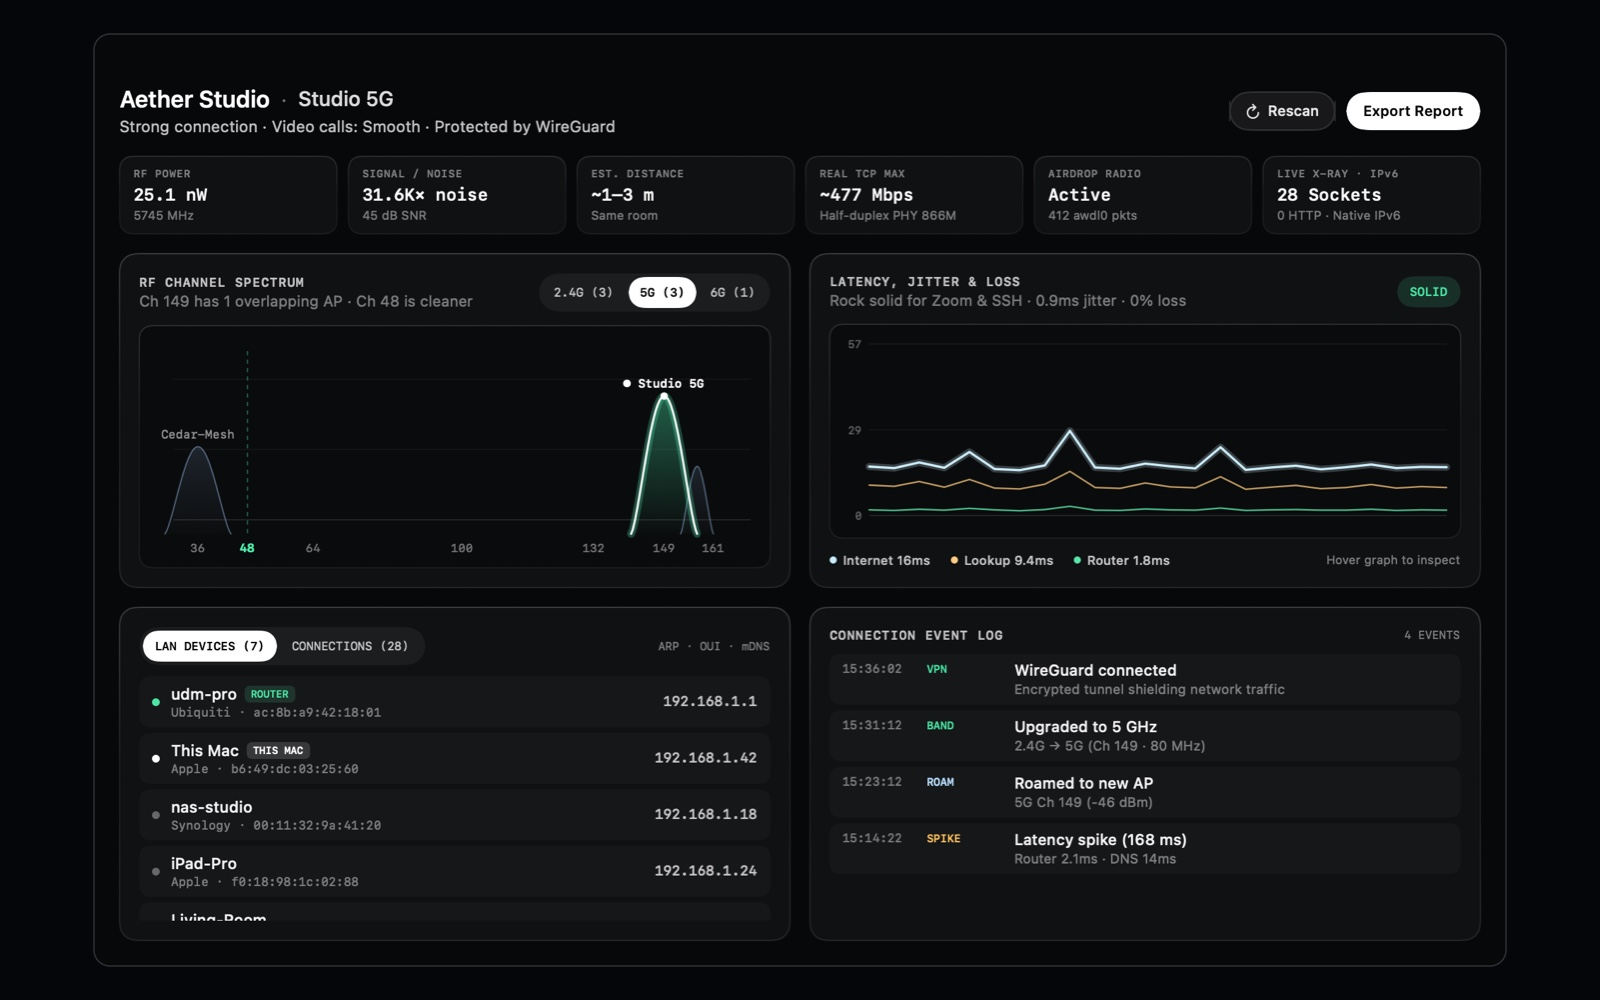
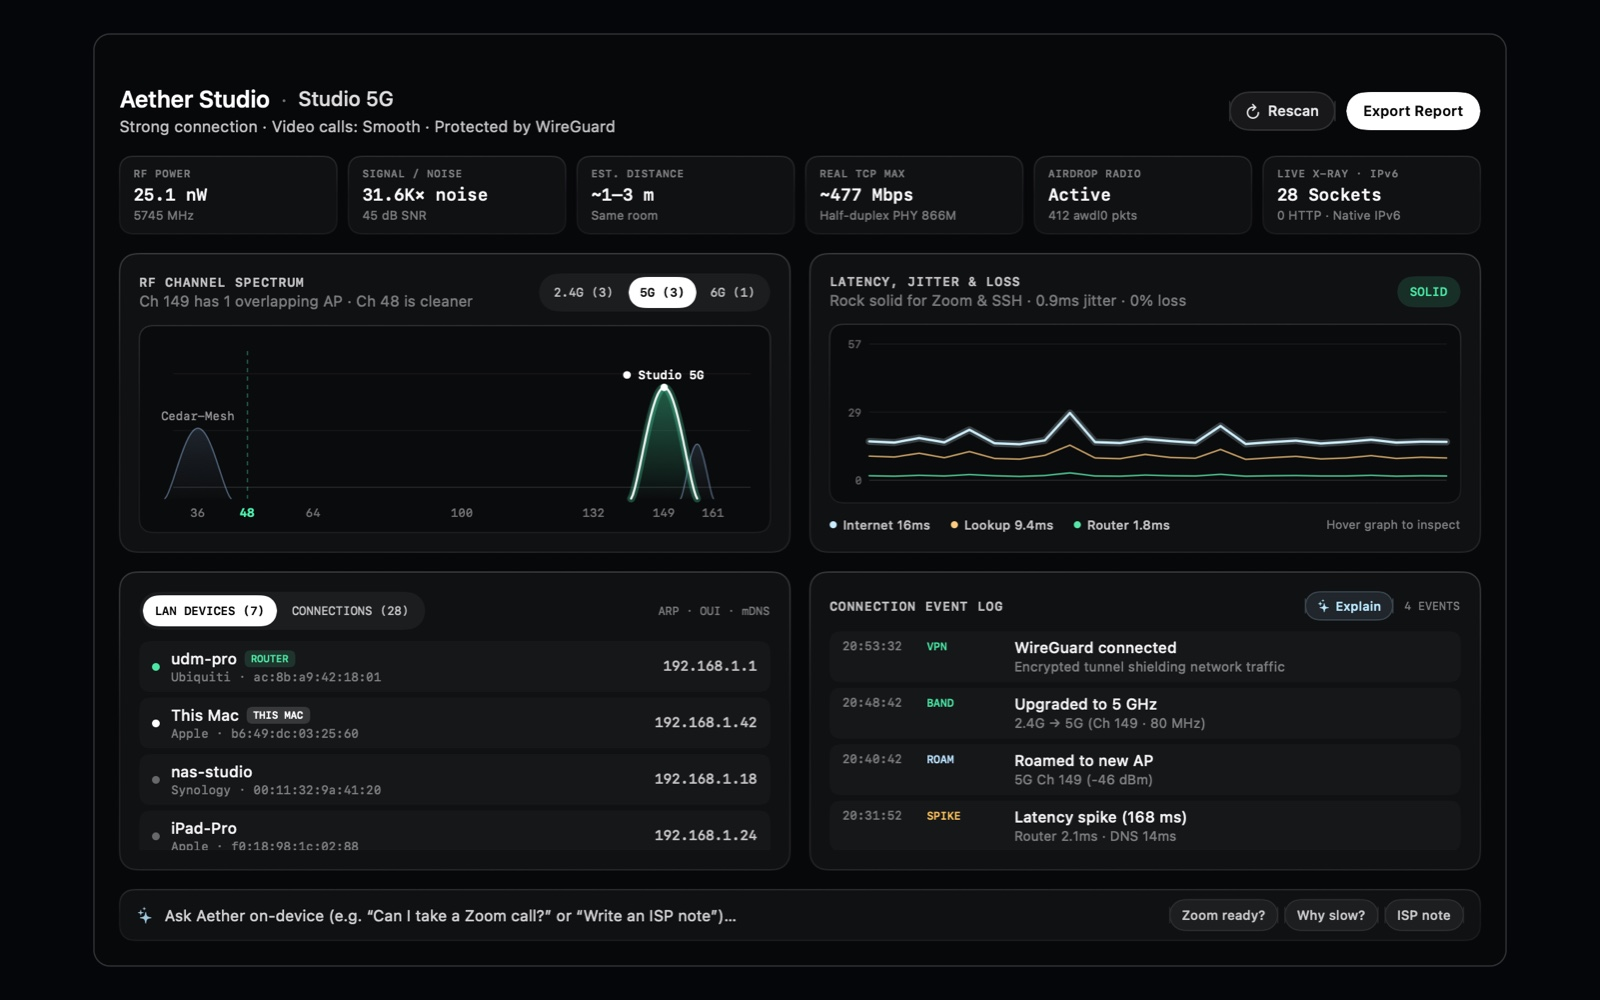
docs: update README, screenshots & App Store review notes for on-device FoundationModels & ICMP/TLS RTT

diff --git a/README.md b/README.md
@@ -1,6 +1,6 @@
 # Aether
 
-**Aether** is a native macOS menu bar Wi-Fi instrument built to replace Apple’s default Wi-Fi menu. Zero subscriptions, zero Electron, zero third-party packages — a **3.1 MB** Swift 6 + SwiftUI + AppKit app (`0.0%` idle CPU) that brings live throughput, parent-grouped app bandwidth with real macOS icons, active interfaces, radio physics, channel spectrum analysis, multi-hop latency/jitter, LAN discovery, outbound connections, and privacy posture into one quiet obsidian panel.
+**Aether** is a native macOS menu bar Wi-Fi instrument built to replace Apple’s default Wi-Fi menu. Zero subscriptions, zero Electron, zero third-party packages — a **3.2 MB** Swift 6 + SwiftUI + AppKit app (`0.0%` idle CPU) that brings live throughput, parent-grouped app bandwidth with real macOS icons, active interfaces, radio physics, channel spectrum analysis, unspoofable ICMP/TLS latency, LAN discovery, outbound connections, privacy posture, and on-device Apple `FoundationModels` diagnostics into one quiet obsidian panel.
 
 **Website & live preview:** [strangechances.com/aether](https://strangechances.com/aether/)
 
@@ -27,12 +27,12 @@ Until now, answering those questions on macOS meant juggling six separate paid u
 | Menu Bar & Speed (`FLUX`) | Public Wi-Fi Privacy (`ROUTE`) |
 | :---: | :---: |
 | ![Menu Bar & Speed](docs/hero-menubar.jpg) | ![Public Wi-Fi Privacy](docs/vis-privacy.jpg) |
-| Live harmonic silk ribbons (`↓ / ↑`), fixed-width `28pt` menu bar icon with color-coded `▾ / ▴` speed arrows (zero bar shifting), 4-step health chain, `Download / Upload` + `Received / Sent / Peak`, active `Wi-Fi` & `VPN` interfaces, parent-grouped `Processes` with real macOS app icons, activity readiness, and bufferbloat speed test. | Plain-English *"Who Can See You Here?"* breakdown (Strangers Nearby, Wi-Fi Owner & ISP, Others on This Wi-Fi), curved Bézier 4-hop route with frosted VPN shield, auto-`PUBLIC` trust zone detection on open or crowded Wi-Fi, and 1-click DNS switching. |
+| Live harmonic silk ribbons (`↓ / ↑`), fixed-width `28pt` menu bar icon with color-coded `▾ / ▴` speed arrows (zero bar shifting), 4-step health chain, `Download / Upload` + `Received / Sent / Peak`, active `Wi-Fi` & `VPN` interfaces, parent-grouped `Processes` with real macOS app icons, activity readiness, on-device `✦ Brief` diagnosis, and bufferbloat speed test. | Plain-English *"Who Can See You Here?"* breakdown (Strangers Nearby, Wi-Fi Owner & ISP, Others on This Wi-Fi), curved Bézier 4-hop route with frosted VPN shield, auto-`PUBLIC` trust zone detection on open or crowded Wi-Fi, and 1-click DNS switching. |
 
 | RF Channel Spectrum & Roaming (`SPECTRUM`) | Aether Studio Workstation (`⌘E`) |
 | :---: | :---: |
 | ![RF Channel Spectrum](docs/vis-spectrum.jpg) | ![Aether Studio](docs/vis-studio.jpg) |
-| Dual-pass Gaussian channel overlap across 2.4 / 5 / 6 GHz, cleaner-channel recommendations, sticky-client 5 GHz roaming nudges, Touch ID Wi-Fi Share QR code, and 1-click VPN toggles. | Expandable obsidian workstation combining a 6-cell RF physics & socket X-Ray bar (nanowatts, linear SNR multiplier, path-loss distance, half-duplex TCP ceiling, `awdl0` AirDrop radio, native IPv6), full channel spectrum, interactive hover-crosshair latency/jitter/loss timeline, OUI + mDNS LAN devices, live per-app outbound connections, and automatic event log. |
+| Dual-pass Gaussian channel overlap across 2.4 / 5 / 6 GHz, cleaner-channel recommendations, sticky-client 5 GHz roaming nudges, Touch ID Wi-Fi Share QR code, and 1-click VPN toggles. | Expandable obsidian workstation combining a 6-cell RF physics & socket X-Ray bar (nanowatts, linear SNR multiplier, path-loss distance, half-duplex TCP ceiling, `awdl0` AirDrop radio, native IPv6), full channel spectrum, interactive hover-crosshair latency/jitter/loss timeline, OUI + mDNS LAN devices, live per-app outbound connections, event log with `✦ Explain`, and an on-device `Ask Aether` command bar. |
 
 <p align="center">
   <img src="docs/vis-disconnected.jpg" alt="Aether Disconnected-First Wi-Fi Picker" width="82%">
@@ -78,6 +78,7 @@ Sources/
 │   ├── TrustAnalyzer.swift         # Non-scareware security posture, Evil Twin & gateway ARP watch
 │   ├── TrustStore.swift            # Per-network trust zones (auto-PUBLIC on open/crowded Wi-Fi) & gateway pinning
 │   ├── HumanSummary.swift          # Plain-English activity readiness, 3-actor privacy story & live RF insights
+│   ├── LocalNetworkAdvisor.swift   # On-device Apple FoundationModels synthesis (macOS 26+, weak-linked) + fallback
 │   ├── OUIVendorLookup.swift       # Compact offline IEEE OUI vendor lookup
 │   ├── NetworkProbes.swift         # Async timeout-bounded probes, 1s nettop delta, captive portal & direct tools
 │   └── MenuBarPositioner.swift     # Notch-safe floating panel geometry

diff --git a/AppStore/REVIEW-NOTES.md b/AppStore/REVIEW-NOTES.md
@@ -7,8 +7,8 @@ Aether is a native macOS menu bar utility (`LSUIElement = true`) that visualizes
 1. Launch **Aether** — its geometric Wi-Fi icon appears in the top-right macOS menu bar (and opens automatically on first launch).
 2. **Connected state:** Click the menu bar icon to inspect:
    - **Hero Stage:** Tap the visualization or hover to switch between **Flux** (live throughput), **Spectrum** (RF channel overlap), and **Route** (4-hop circuit).
-   - **Tabs:** `Speed` (live Download/Upload, Received/Sent/Peak totals, active network interfaces, activity readiness, and `Run Test` responsiveness check), `Privacy` (local network exposure, trust zone, and discovered LAN devices), `Wi-Fi` (nearby networks and system VPN toggle), and `More` (Simple/Pro view, menu bar style, on-demand Public IP lookup, Privacy Policy).
-   - **Studio Window:** Click the top-right expand arrow (or press `⌘E`) to open Aether Studio.
+   - **Tabs:** `Speed` (live Download/Upload, Received/Sent/Peak totals, active network interfaces, activity readiness, on-demand `✦ Brief` diagnosis, and `Run Test` responsiveness check), `Privacy` (local network exposure, trust zone, and discovered LAN devices), `Wi-Fi` (nearby networks and system VPN toggle), and `More` (Simple/Pro view, fixed-width menu bar style, on-demand Public IP lookup, Privacy Policy).
+   - **Studio Window:** Click the top-right expand arrow (or press `⌘E`) to open Aether Studio (RF physics, channel spectrum, latency/jitter timeline, LAN devices, event log with `✦ Explain`, and on-device `Ask Aether` command bar).
 3. **Disconnected state:** Turn Wi-Fi off or disconnect from a network, then click Aether in the menu bar — the popover focuses directly on the Wi-Fi network picker.
 
 ## Permissions & Entitlements
@@ -16,4 +16,5 @@ Aether is a native macOS menu bar utility (`LSUIElement = true`) that visualizes
 - **Outbound Network (`com.apple.security.network.client`):** Used for local gateway ICMP ping, DNS/TCP latency probes (`one.one.one.one:443`), captive portal checks (`http://captive.apple.com/hotspot-detect.html`), and explicit user-triggered actions (`Run Test` via `speed.cloudflare.com` and `Check` Public IP via `https://ipinfo.io/json`).
 - **ATS Single-Domain Exception (`captive.apple.com`):** Cleartext HTTP is scoped exclusively to Apple's `captive.apple.com` probe host so hotel/airport captive portal redirects can be detected before TLS is available. All other connections enforce ATS/HTTPS.
 - **Not a VPN Provider:** Aether does not create, bundle, or route traffic through a VPN service. It only displays the connection state of VPN configurations already installed by the user via `SCNetworkConnection` and lets the user toggle them.
+- **On-Device Intelligence (`FoundationModels`, weak-linked for macOS 26+):** Optional `✦ Brief`, `✦ Explain`, and `Ask Aether` features run strictly on-demand via Apple’s built-in on-device `SystemLanguageModel.default` with zero cloud calls, zero external AI APIs, and an instant deterministic local fallback on macOS 15 or when Apple Intelligence is unavailable.
 - **Launch at Login:** Disabled by default (`SMAppService.mainApp`), enabled only when the user explicitly toggles `LOGIN: ON`.
